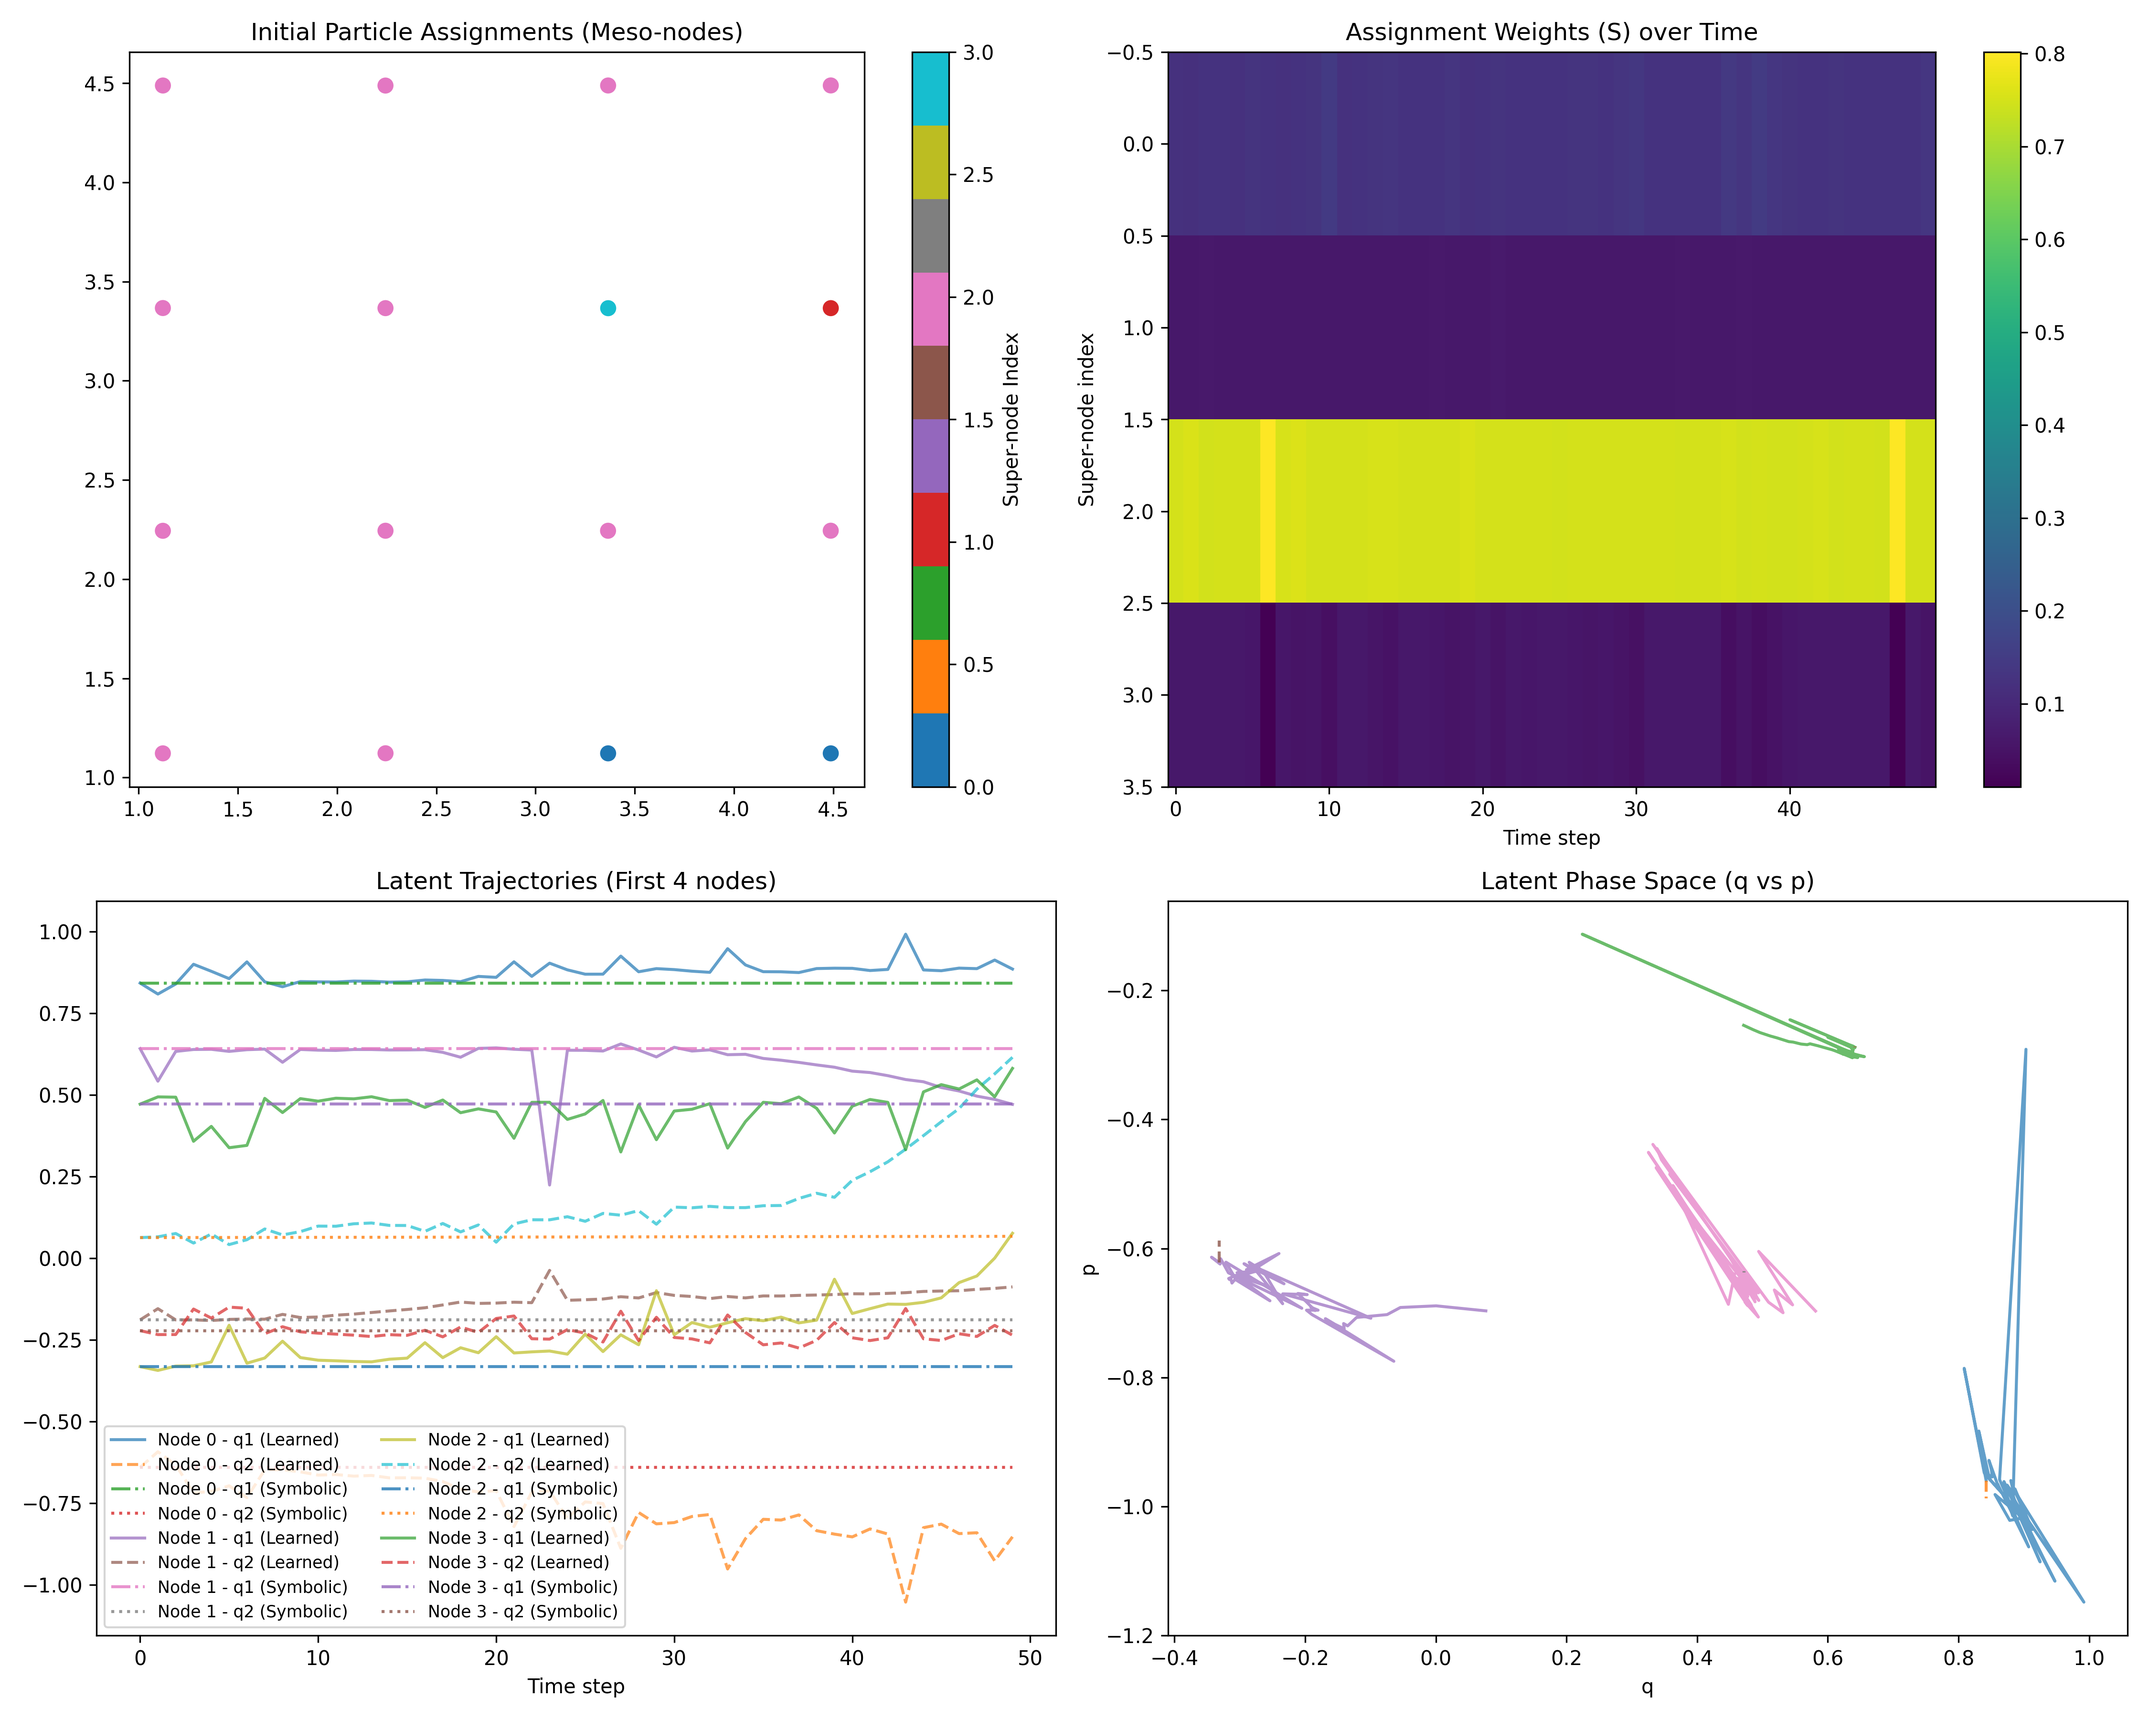
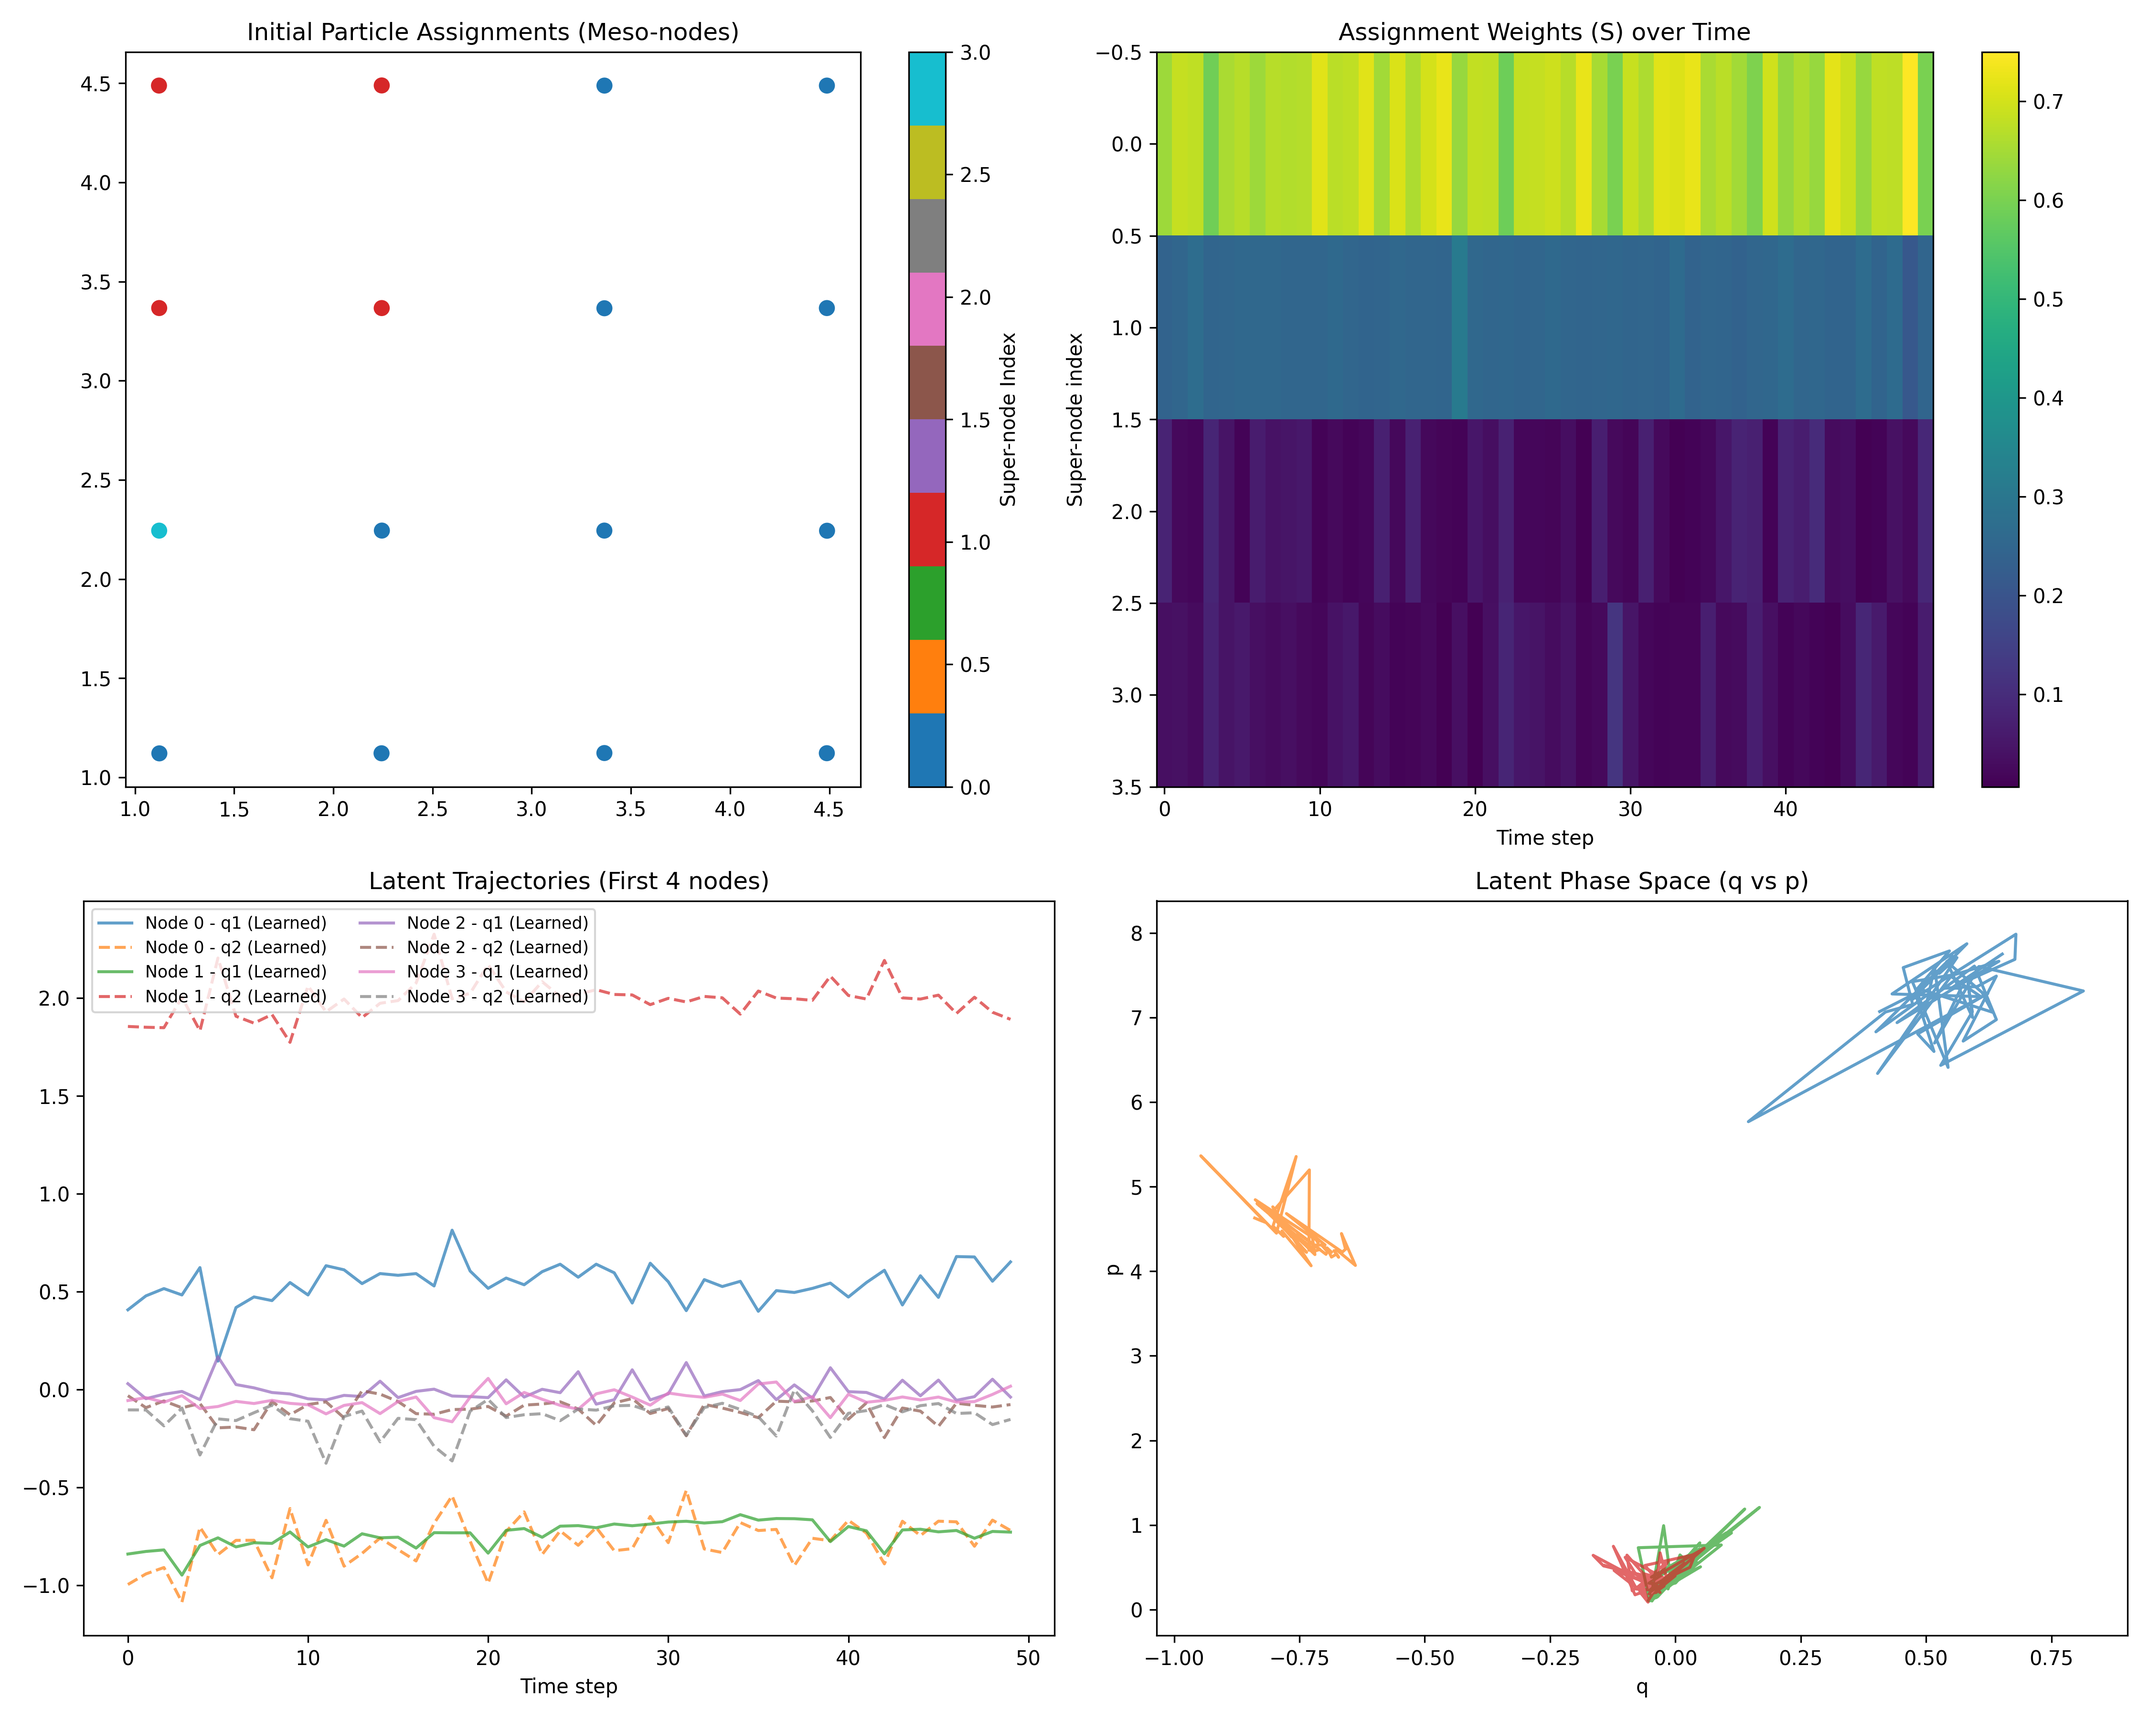
updated

diff --git a/engine.py b/engine.py
@@ -712,12 +712,24 @@ class Trainer:
             lvars[11], lvars[3], lvars[12] = 0.0, 0.0, 0.0
 
         raw_losses = {'rec': loss_rec, 'cons': loss_cons, 'assign': loss_assign, 'ortho': loss_ortho, 'l2': loss_l2, 'lvr': loss_lvr, 'align': loss_align, 'pruning': loss_pruning, 'sep': loss_sep, 'conn': loss_conn, 'sparsity': loss_sparsity, 'mi': loss_mi, 'sym': loss_sym, 'var': loss_var, 'hinge': loss_hinge, 'smooth': loss_smooth}
-        
+
+        # NEW: Latent Activity penalty to prevent static latent trap
+        if len(z_vel) > 0:
+            loss_activity = -0.1 * torch.log(z_vel.pow(2).mean() + 1e-6)
+            raw_losses['activity'] = loss_activity
+
         # Ensure all raw losses are float32 for stable balancing, especially on MPS
         for k in raw_losses:
             raw_losses[k] = raw_losses[k].to(torch.float32)
 
-        weights = {k: torch.exp(-lvars[i]) for i, k in enumerate(raw_losses.keys())}
+        # Create weights for losses that have corresponding log_vars entries (first 16)
+        base_keys = list(raw_losses.keys())[:16]  # Only first 16 keys that correspond to lvars
+        weights = {k: torch.exp(-lvars[i]) for i, k in enumerate(base_keys)}
+
+        # Special case for activity loss which might not be in log_vars yet
+        if 'activity' in raw_losses and 'activity' not in weights:
+            weights['activity'] = 1.0
+
         if self.enhanced_balancer and not is_stage1:
             balanced = self.enhanced_balancer.get_balanced_losses(raw_losses, self.model.parameters())
             for k in weights:
@@ -736,11 +748,11 @@ class Trainer:
                 weights['ortho'] = max(weights['ortho'], torch.exp(-self.model.log_vars[3]).item())
                 weights['sparsity'] = max(weights['sparsity'], torch.exp(-self.model.log_vars[11]).item())
 
-        discovery_loss = sum(weights[k] * torch.clamp(raw_losses[k], 0, 100) + lvars[i] for i, k in enumerate(raw_losses.keys()) if k not in ['cons', 'l2', 'lvr'])
+        discovery_loss = sum(weights[k] * torch.clamp(raw_losses[k], -100, 100) + (lvars[i] if i < len(lvars) else 0.0) for i, k in enumerate(raw_losses.keys()) if k not in ['cons', 'l2', 'lvr'])
         discovery_loss += (weights['sym'] * (self.symbolic_weight - 1.0) * torch.clamp(loss_sym.to(torch.float32), 0, 100)) # Adjust sym weight
         discovery_loss += 1e-4 * torch.clamp(loss_curv.to(torch.float32), 0, 100)
 
-        loss = discovery_loss + (weights['l2'] * 1e-4 * torch.clamp(loss_l2, 0, 100) + lvars[4]) + (weights['lvr'] * 0.5 * torch.clamp(loss_lvr, 0, 100) + lvars[5])  # Increased from 5e-2 to 0.5
+        loss = discovery_loss + (weights['l2'] * 1e-6 * torch.clamp(loss_l2, 0, 100) + lvars[4]) + (weights['lvr'] * 2.0 * torch.clamp(loss_lvr, 0, 100) + lvars[5])  # Decr l2 (1e-4->1e-6), Incr lvr (0.5->2.0)
         if compute_consistency: loss += (weights['cons'] * torch.clamp(loss_cons.to(torch.float32), 0, 100) + lvars[1])
 
         # Add smoothing loss to the total loss - INCREASED WEIGHT FOR DAMPING

diff --git a/unified_train.py b/unified_train.py
@@ -19,7 +19,7 @@ def main():
     parser = argparse.ArgumentParser(description="Unified Emergentia Training Pipeline - Optimized")
     parser.add_argument('--particles', type=int, default=16)
     parser.add_argument('--super_nodes', type=int, default=4)
-    parser.add_argument('--epochs', type=int, default=500)
+    parser.add_argument('--epochs', type=int, default=1000)
     parser.add_argument('--steps', type=int, default=500)
     parser.add_argument('--lr', type=float, default=5e-4)
     parser.add_argument('--sim', type=str, default='spring', choices=['spring', 'lj'])
@@ -57,7 +57,7 @@ def main():
     sparsity_scheduler = SparsityScheduler(
         initial_weight=0.0,
         target_weight=0.1,
-        warmup_steps=args.epochs // 2,
+        warmup_steps=400, # Stay at 0.0 until epoch 400
         max_steps=args.epochs
     )
 
@@ -66,7 +66,7 @@ def main():
         lr=args.lr,
         device=device,
         stats=stats,
-        warmup_epochs=100, # Stage 1: Train rec and assign - Increased from 50
+        warmup_epochs=200, # Stage 1: Train rec and assign - Increased to 200
         max_epochs=args.epochs,
         sparsity_scheduler=sparsity_scheduler
     )
@@ -115,11 +115,11 @@ def main():
     print(f"Latent Stability (Var[dz]): {dz_stability:.6f}")
 
     # Adjusted Quality Gate: Strict threshold to ensure meaningful physical mapping before distillation
-    rec_threshold = 0.02 if dz_stability < 0.01 else 0.02  # Both cases now use 0.02 threshold
+    rec_threshold = 0.01 if dz_stability < 0.01 else 0.01  # Both cases now use 0.01 threshold
 
-    if epoch < 100 or (last_rec > rec_threshold and dz_stability > 0.05):
+    if epoch < 200 or (last_rec > rec_threshold and dz_stability > 0.05):
         reason = ""
-        if epoch < 100: reason += "Insufficient epochs. "
+        if epoch < 200: reason += "Insufficient epochs. "
         if last_rec > rec_threshold: reason += f"Rec Loss too high ({last_rec:.4f} > {rec_threshold}). "
         if dz_stability > 0.05: reason += f"Latent space unstable ({dz_stability:.4f} > 0.05). "
         print(f"Skipping symbolic discovery: {reason}")

diff --git a/stable_pooling.py b/stable_pooling.py
@@ -26,7 +26,7 @@ class StableHierarchicalPooling(nn.Module):
 
     def __init__(self, in_channels, n_super_nodes, pruning_threshold=0.01,
                  temporal_consistency_weight=0.1, collapse_prevention_weight=2.0,
-                 sparsity_weight=0.01, min_active_super_nodes=1):
+                 sparsity_weight=0.01, min_active_super_nodes=4):
         """
         Initialize the stable hierarchical pooling layer.
 
@@ -52,7 +52,7 @@ class StableHierarchicalPooling(nn.Module):
             nn.ReLU(),
             nn.Linear(in_channels, n_super_nodes)
         )
-        self.scaling = nn.Parameter(torch.tensor(10.0)) # Increased to 10.0 for stronger symmetry breaking
+        self.scaling = nn.Parameter(torch.tensor(20.0)) # Increased to 20.0 for stronger symmetry breaking
         self.register_buffer('active_mask', torch.ones(n_super_nodes))
 
         # Track previous assignments for temporal consistency
@@ -210,7 +210,7 @@ class StableHierarchicalPooling(nn.Module):
 
         assign_losses = {
             'entropy': entropy,
-            'diversity': diversity_loss * 5.0, # Increased by 5x as requested
+            'diversity': diversity_loss * 20.0, # Increased by 20x as requested
             'spatial': spatial_loss,
             'pruning': pruning_loss,
             'sparsity': sparsity_loss * self.current_sparsity_weight,

diff --git a/model.py b/model.py
@@ -225,7 +225,7 @@ class HierarchicalPooling(nn.Module):
         return out, s, assign_losses, mu
 
 class GNNEncoder(nn.Module):
-    def __init__(self, node_features, hidden_dim, latent_dim, n_super_nodes, min_active_super_nodes=2):
+    def __init__(self, node_features, hidden_dim, latent_dim, n_super_nodes, min_active_super_nodes=4):
         super(GNNEncoder, self).__init__()
         self.gnn1 = EquivariantGNNLayer(node_features, hidden_dim)
         self.ln1 = nn.LayerNorm(hidden_dim)
@@ -501,7 +501,7 @@ class MIDiscriminator(nn.Module):
         return self.net(zp)
 
 class DiscoveryEngineModel(nn.Module):
-    def __init__(self, n_particles, n_super_nodes, node_features=4, latent_dim=4, hidden_dim=64, hamiltonian=False, dissipative=True, min_active_super_nodes=2, box_size=10.0):
+    def __init__(self, n_particles, n_super_nodes, node_features=4, latent_dim=4, hidden_dim=128, hamiltonian=False, dissipative=True, min_active_super_nodes=4, box_size=10.0):
         super(DiscoveryEngineModel, self).__init__()
         self.encoder = GNNEncoder(node_features, hidden_dim, latent_dim, n_super_nodes, min_active_super_nodes=min_active_super_nodes)
         
